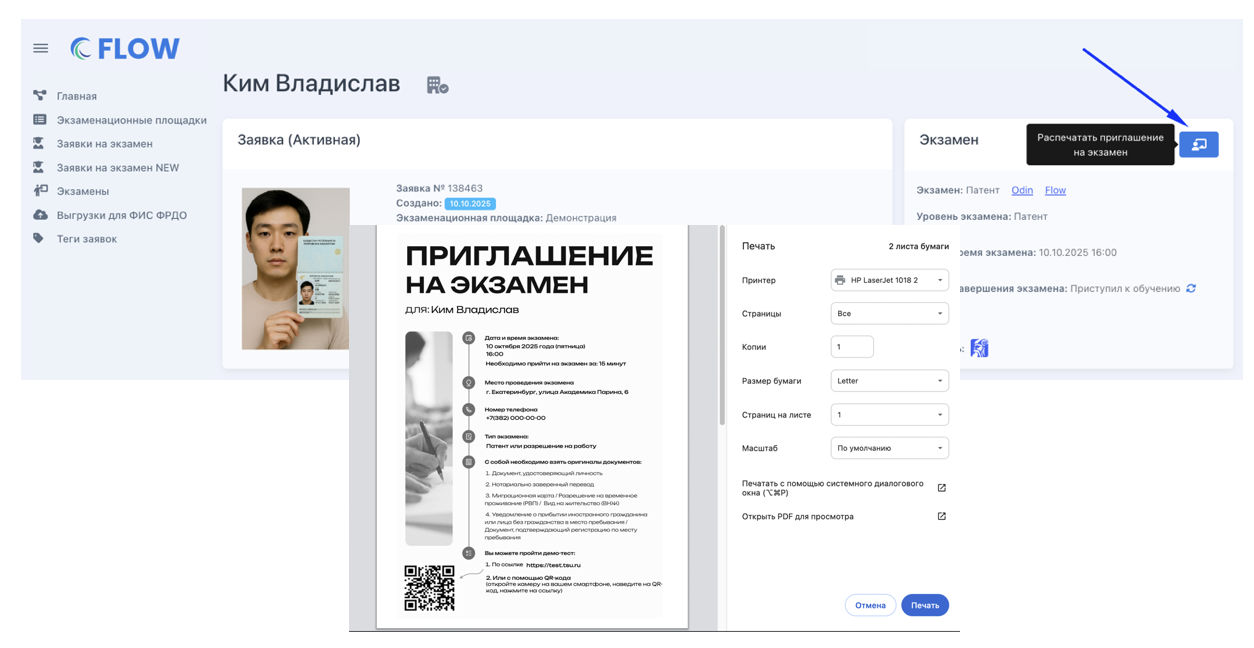
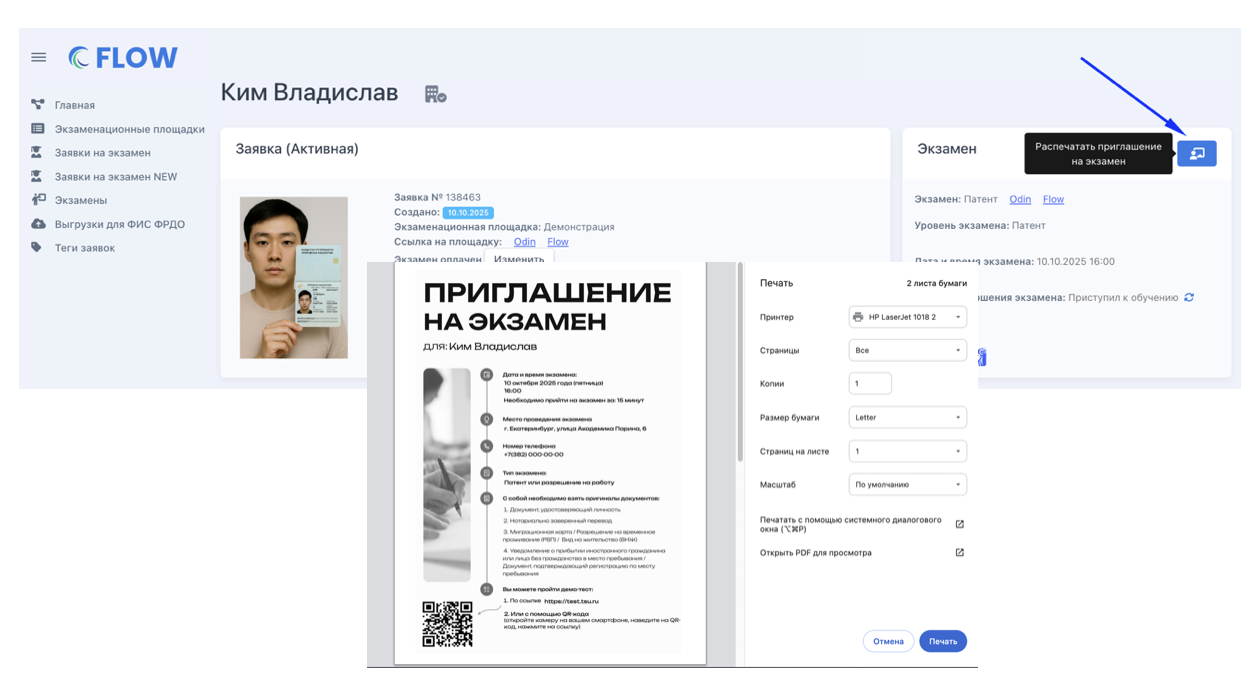
Update 3 files
- flow.-rabota-s-dokumentami/dobavlenie-zayavki-vruchnuyu/_index.md
   - flow.-rabota-s-dokumentami/dobavlenie-zayavki-vruchnuyu/dobavlenie-zayavki-vruchnuyu-8.png
 - flow.-rabota-s-dokumentami/dobavlenie-zayavki-vruchnuyu/dobavlenie-zayavki-vruchnuyu-10.png

diff --git a/flow.-rabota-s-dokumentami/dobavlenie-zayavki-vruchnuyu/_index.md b/flow.-rabota-s-dokumentami/dobavlenie-zayavki-vruchnuyu/_index.md
@@ -99,21 +99,15 @@ title: Добавление заявки вручную
 
 На странице заявки в блоке «Экзамен»
 
-![](./dobavlenie-zayavki-vruchnuyu-8.png){width=1254px height=648px}
-
-[/tab]
-
-[tab:Из ЛК сдающего]
-
-Если заявка подана удаленно, то сдающий сможет в личном кабинете сам посмотреть и при необходимости распечатать приглашение на экзамен.
-
-![](./dobavlenie-zayavki-vruchnuyu-8.png){width=1270px height=642px}
+![](./dobavlenie-zayavki-vruchnuyu-8.png){width=1256px height=694px}
 
 
 
 [/tab]
 
 [/tabs]
+
+
 
 ## Редактирование/дополнение/ изменения в созданной заявке
 
